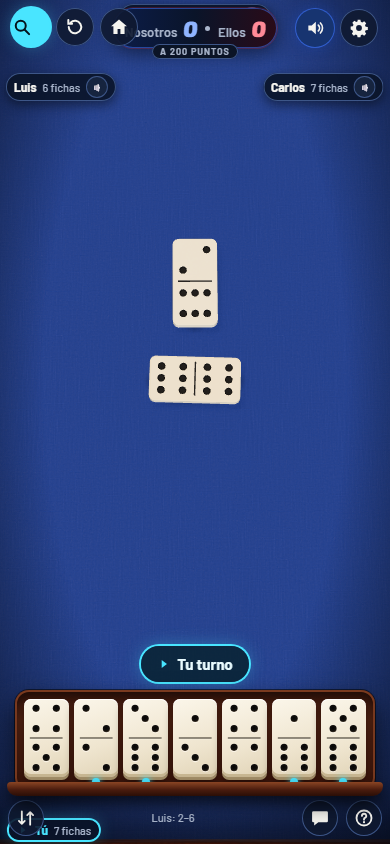
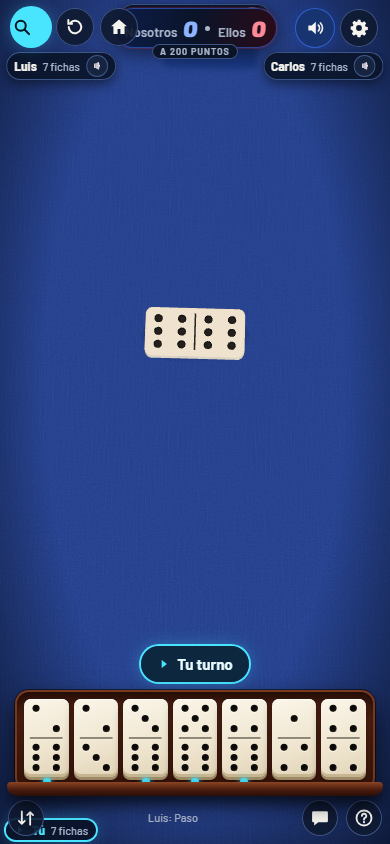
Limpieza del rediseño: CSS antiguo, pantalla sin enlace y posiciones del HUD
- Elimina las cinco hojas CSS antiguas y la pantalla «choice» sin enlace.
- Horizontal: mensaje arriba al centro; etiqueta «Tú» junto a la bandera.
- Capturas regeneradas en los 7 tamaños (26 comprobaciones sin problemas).

diff --git a/src/Domino.Desktop/wwwroot/index.html b/src/Domino.Desktop/wwwroot/index.html
@@ -59,7 +59,6 @@
         <p class="home-note">Práctica local con bots · Sin apuestas</p>
       </div>
     </section>
-    <section id="screen-choice" class="app-screen panel-screen" hidden><div class="nav-panel"><button class="back-button" data-back="home"><svg class="icon"><use href="#i-back"/></svg>Inicio</button><span class="eyebrow">¿CÓMO JUGAMOS HOY?</span><h2>Busca tu mesa.</h2><button class="choice-card" id="choice-create"><strong>Crear mesa</strong><span>Configura una práctica con tus propias condiciones.</span><b>→</b></button><button class="choice-card" id="choice-practice"><strong>Practicar con bots</strong><span>Patio RD · a 200 · sin reloj · nivel intermedio.</span><b>→</b></button><div class="unavailable-card"><strong>Partida rápida en línea</strong><span>El emparejamiento y el cliente multijugador aún no están integrados. Aquí no se simulan jugadores conectados.</span></div></div></section>
     <section id="screen-config" class="app-screen panel-screen" hidden><form class="nav-panel config-panel" id="table-form" novalidate><button type="button" class="back-button" data-back="home"><svg class="icon"><use href="#i-back"/></svg>Inicio</button><span class="eyebrow">LAS CONDICIONES, CLARAS</span><h2>Prepara la mesa.</h2>
       <label class="form-field">Nombre de la mesa<input id="table-name" name="name" maxlength="40" required value="La mesa de los panas"></label>
       <fieldset><legend>Tipo de mesa</legend><label class="type-card"><input type="radio" checked name="type" value="practice"> Práctica con bots <small>Disponible ahora · Tú y tres bots en este equipo</small></label><div class="disabled-options"><span>Pública · requiere emparejamiento en línea, aún no integrado</span><span>Privada con código · el cliente gráfico aún no se conecta al servidor de mesas</span></div></fieldset>

diff --git a/src/Domino.Desktop/wwwroot/navigation.js b/src/Domino.Desktop/wwwroot/navigation.js
@@ -6,7 +6,7 @@ const fields={name:'table-name',target:'table-target',turnSeconds:'table-time',d
 const numeric=new Set(['target','turnSeconds','bonus']);
 const defaults={name:'La mesa de los panas',target:200,turnSeconds:0,difficulty:'intermediate',environment:'club',quickMessages:true,partner:'ana',...RULE_DEFAULTS};
 const practiceDefaults={...defaults,name:'Práctica en el patio'};
-const routes=['home','choice','config','lobby','game','profile','join'];
+const routes=['home','config','lobby','game','profile','join'];
 
 export class PatioNavigation {
   constructor({getState,action,enterGame,showDialog,onEnvironment,onError=()=>{}}) {
@@ -17,8 +17,8 @@ export class PatioNavigation {
     document.querySelectorAll('[data-back]').forEach(b=>b.onclick=()=>this.go(b.dataset.back));
     // Jugar ahora: straight to a table with your last saved conditions. Online matchmaking does not exist yet.
     $('home-quick').onclick=()=>this.quickPlay();
-    for(const id of ['home-create','choice-create'])$(id).onclick=()=>this.go('config');
-    for(const id of ['home-practice','choice-practice','join-practice'])$(id).onclick=()=>this.practice();
+    $('home-create').onclick=()=>this.go('config');
+    for(const id of ['home-practice','join-practice'])$(id).onclick=()=>this.practice();
     $('home-join').onclick=()=>this.go('join');$('home-profile').onclick=()=>this.go('profile');
     $('home-help').onclick=()=>showDialog('help-dialog');$('home-settings').onclick=()=>showDialog('settings-dialog');
     $('resume').onclick=()=>this.play();$('ready').onclick=()=>this.ready();

diff --git a/src/Domino.Desktop/wwwroot/screens.css b/src/Domino.Desktop/wwwroot/screens.css
@@ -55,10 +55,6 @@
 .rule-item strong{font-size:var(--fs-sm)}
 .rule-item p,.rule-detail{font-size:var(--fs-xs);line-height:1.5;color:var(--text-3);margin:4px 0 0}
 .house-rules .setting-row b{display:block}
-.choice-card{display:grid;grid-template-columns:1fr auto;gap:4px var(--s-3);width:100%;margin:var(--s-2) 0;padding:var(--s-4);border:0;border-radius:var(--r-md);text-align:left;background:linear-gradient(180deg,#173470,#0f2453);box-shadow:var(--edge-blue)}
-.choice-card span{color:var(--text-2);font-size:var(--fs-sm)}.choice-card b{grid-row:1/3;grid-column:2;align-self:center}
-.unavailable-card{display:grid;gap:4px;margin-top:var(--s-2);padding:var(--s-4);border-radius:var(--r-md);border:1px dashed var(--line-strong);color:var(--text-3);font-size:var(--fs-sm)}
-.unavailable-card strong{color:var(--text-2)}
 
 /* Lobby: four seats in table order, the partner opposite. */
 .lobby-seats{display:grid;grid-template-columns:repeat(2,1fr);gap:var(--s-2);margin:var(--s-4) 0}

diff --git a/src/Domino.Desktop/wwwroot/table-model.js b/src/Domino.Desktop/wwwroot/table-model.js
@@ -17,7 +17,7 @@ function tableLayout(name,fx,fz) {
     steepest:name==='portrait'?80:70,
     racks:{1:{x:fx+.35,z:0,yaw:Math.PI/2},2:{x:0,z:-(fz+.32),yaw:Math.PI},3:{x:-(fx+.35),z:0,yaw:-Math.PI/2}},
     // Each label sits on the rail at the far end of that player's support, never over its tiles.
-    labels:{0:[-1.45,flagZ],1:[fx+.4,-2.95],2:[0,-(fz+.62)],3:[-(fx+.4),-2.95]},
+    labels:{0:[-2.05,flagZ],1:[fx+.4,-2.95],2:[0,-(fz+.62)],3:[-(fx+.4),-2.95]},
     flagZ
   });
 }

diff --git a/docs/EXPERIENCIA_GRAFICA.md b/docs/EXPERIENCIA_GRAFICA.md
@@ -13,7 +13,9 @@ Rediseño completo según la imagen de referencia, sobre la misma arquitectura (
 
 **Comprobado**: 13 pruebas Node (incluye cadena y encuadre verticales), práctica C# (78), Playwright 9/9, y `tests/visual/captures.mjs` en 360×800, 390×844, 430×932, 800×360, 844×390, 932×430 y 1440×900 sin recortes, con 4 etiquetas, 7 fichas ≥ 41 px y 0 caras rivales. Capturas `docs/capturas/quisqueya-*.png`.
 
-**Pendiente**: medición en teléfonos reales; juego en línea; la pantalla «choice» antigua queda sin enlace.
+**Limpieza (3 de noviembre de 2026)**: eliminadas las hojas antiguas (`styles.css`, `interaction.css`, `navigation.css`, `presentation.css`, `table-ui.css`) y la pantalla «choice» sin enlace. En horizontal el mensaje va arriba al centro (máx. 2 líneas) y la etiqueta «Tú» junto a la bandera, sin taparla. Capturas regeneradas en los 7 tamaños: 26 comprobaciones sin problemas; `verify.ps1` PASS.
+
+**Pendiente (no se puede resolver desde este entorno)**: medir en teléfonos y GPU reales (aquí solo hay Chromium con WebGL por CPU); juego en línea (emparejamiento, salas por código y cuentas no existen en el cliente; requieren servidor público con HTTPS/WSS).
 
 ## Revisión 4 (2 de noviembre de 2026): materiales físicos, fichas con cavidades e iluminación PBR
 
